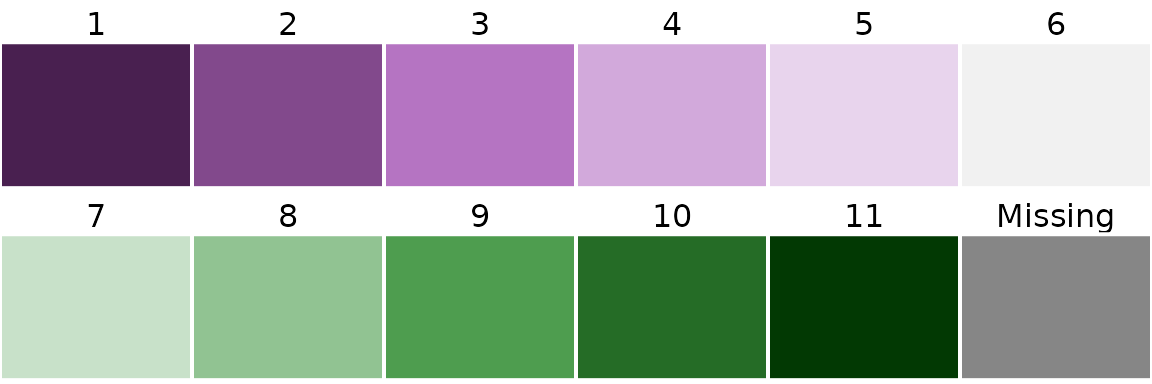
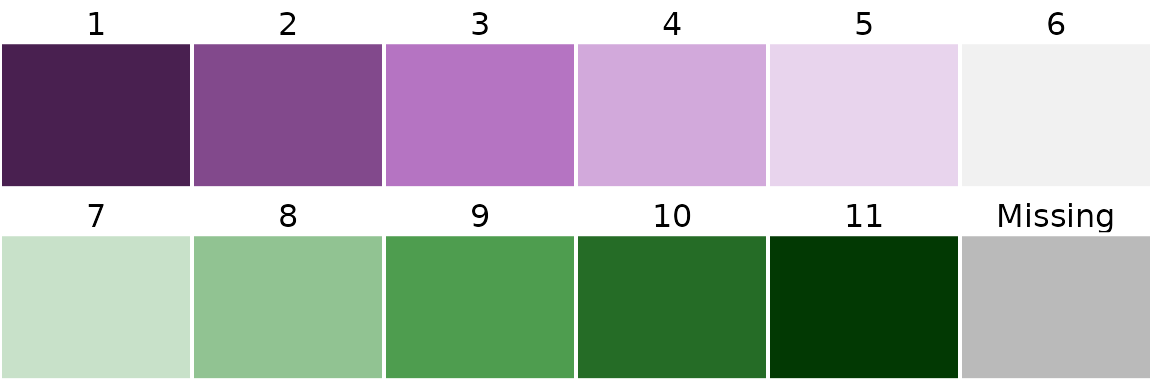
Deploying to gh-pages from @ mtennekes/cols4all@f5446f317e2b926b9bc698829048ef7ee04df78f 🚀

Changed region(s): [[0.8125, 0.5938, 1.0, 1.0]]

diff --git a/articles/cols4all.html b/articles/cols4all.html
@@ -274,7 +274,7 @@ with:</p>
 <span></span>
 <span><span class="co"># get the associated color for missing values</span></span>
 <span><span class="fu"><a href="../reference/c4a.html">c4a_na</a></span><span class="op">(</span><span class="st">"hcl.purple_green"</span><span class="op">)</span></span>
-<span><span class="co">#&gt; [1] "#868686"</span></span></code></pre></div>
+<span><span class="co">#&gt; [1] "#BABABA"</span></span></code></pre></div>
 <p>Plot these colors:</p>
 <div class="sourceCode" id="cb9"><pre class="downlit sourceCode r">
 <code class="sourceCode R"><span><span class="fu"><a href="../reference/c4a_plot.html">c4a_plot</a></span><span class="op">(</span><span class="st">"hcl.purple_green"</span>, <span class="fl">11</span>, include.na <span class="op">=</span> <span class="cn">TRUE</span><span class="op">)</span></span></code></pre></div>

diff --git a/reference/c4a.html b/reference/c4a.html
@@ -288,7 +288,7 @@
 <span class="r-in"><span></span></span>
 <span class="r-in"><span><span class="co"># the color for missing values is white:</span></span></span>
 <span class="r-in"><span><span class="fu">c4a_na</span><span class="op">(</span><span class="st">"hcl.set2"</span><span class="op">)</span></span></span>
-<span class="r-out co"><span class="r-pr">#&gt;</span> [1] "#FFFFFF"</span>
+<span class="r-out co"><span class="r-pr">#&gt;</span> [1] "#E1E1E1"</span>
 </code></pre></div>
     </div>
   </main><aside class="col-md-3"><nav id="toc" aria-label="Table of contents"><h2>On this page</h2>
